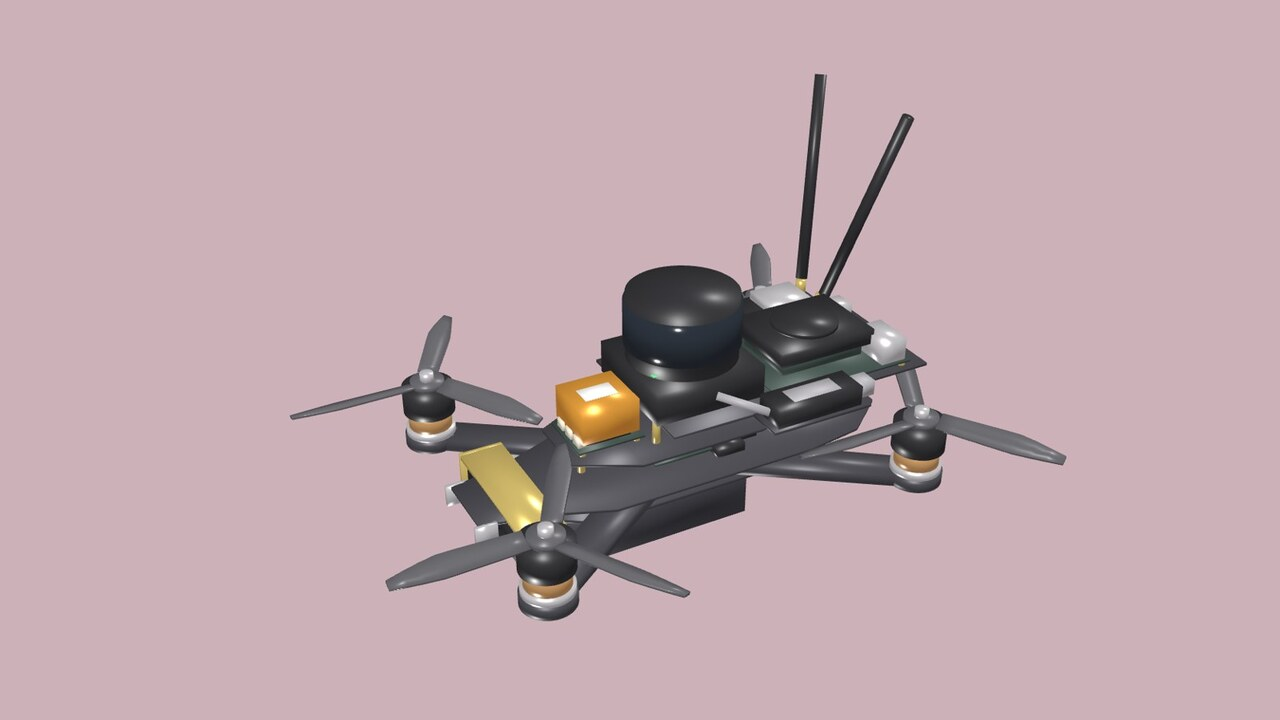
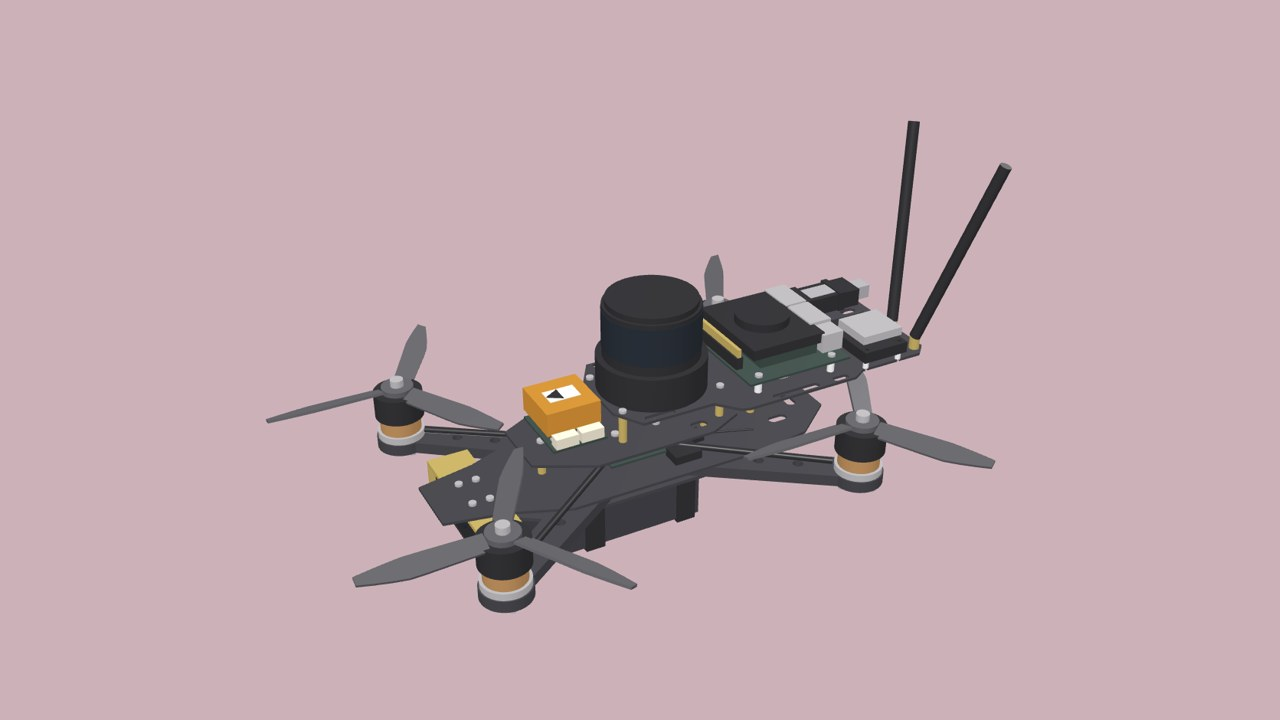
README: drone CAD frames rebuilt from part geometry (1.784 kg); third cell is the stack close-up
(cherry picked from commit c5be7f743ec954a413b44cc3a4cccac3d4fb2bfd)

Changed region(s): [[0.2188, 0.0917, 0.8438, 0.8861], [0.7812, 0.2139, 0.8125, 0.2444]]

diff --git a/README.md b/README.md
@@ -38,8 +38,8 @@ nothing here is measured on hardware.
   </tr>
   <tr>
     <td><img src="Docs/media/readme/drone_cad_vs_reference.jpg" alt="Reference concept beside the CAD model"><br><sub><b>Design.</b> AOS 7 V5 search drone: reference layout (left) and our CAD model (right).</sub></td>
-    <td><img src="Docs/media/readme/drone_cad_iso.jpg" alt="CAD model iso view"><br><sub><b>Design.</b> CAD model: 1.843 kg, two decks, L2, Orin, OAK-D S2, Cube Orange; exported to URDF for simulation.</sub></td>
-    <td><img src="Docs/media/readme/drone_cad_top.jpg" alt="CAD model top view"><br><sub><b>Design.</b> CAD top view: stretched-X frame, 254 x 184 mm motor rectangle, 7-inch tri-blade props.</sub></td>
+    <td><img src="Docs/media/readme/drone_cad_iso.jpg" alt="CAD model iso view"><br><sub><b>Design.</b> CAD model: 1.784 kg, two decks, L2, Orin, OAK-D S2, Cube Orange; exported to URDF for simulation.</sub></td>
+    <td><img src="Docs/media/readme/drone_cad_top.jpg" alt="CAD model stack close-up"><br><sub><b>Design.</b> Stack close-up: L2, Jetson deck on M3 standoffs, Cube Mini carrier, radio and antennas.</sub></td>
   </tr>
 </table>
 
